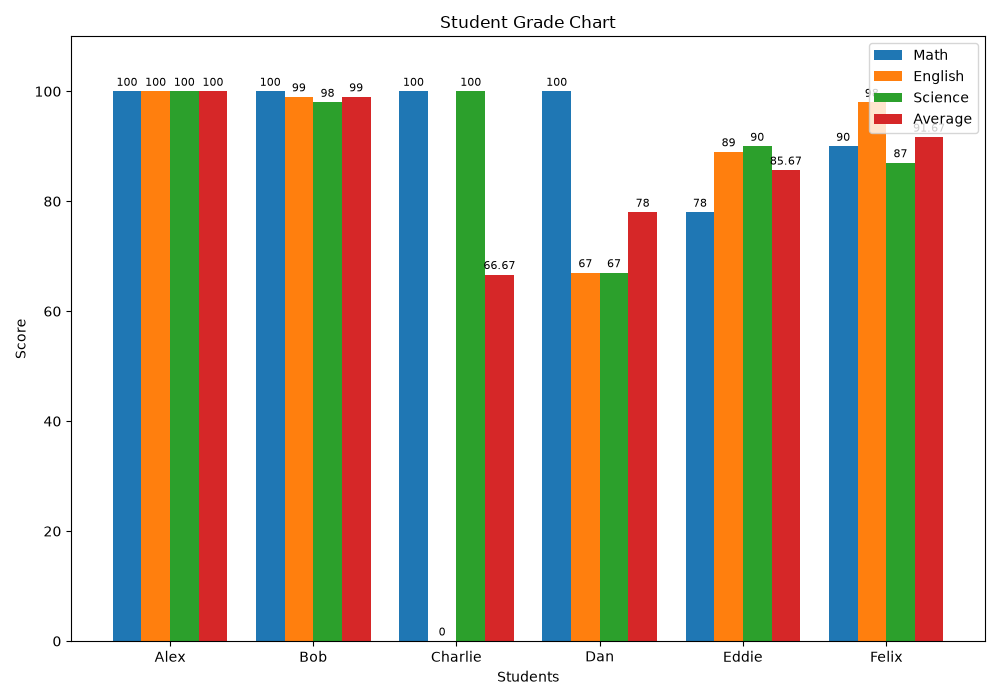
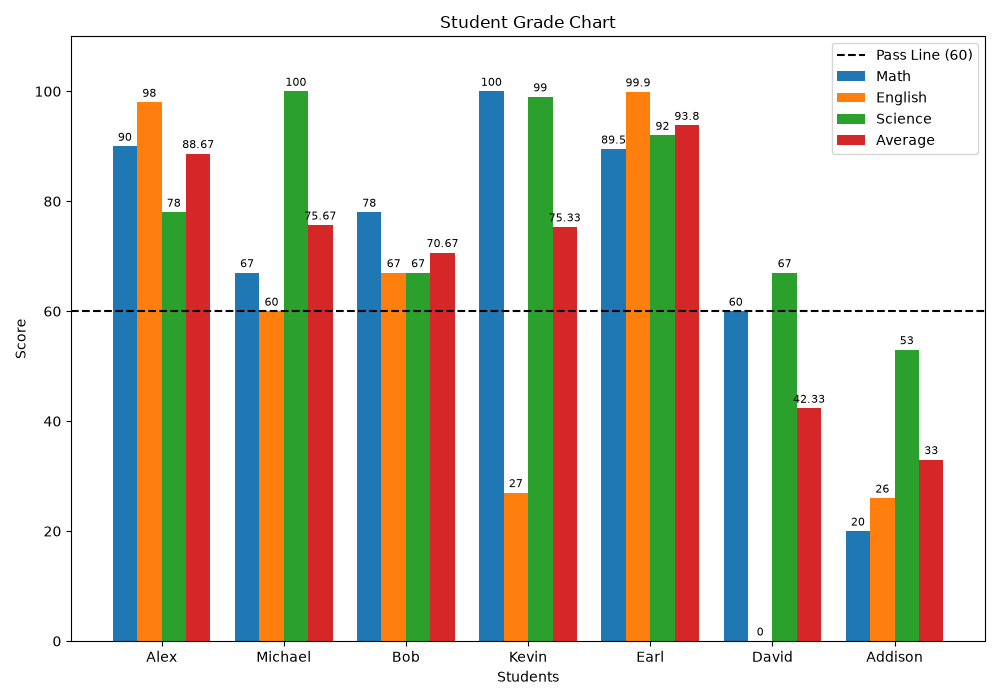
Improve validation and student statistics

diff --git a/main.py b/main.py
@@ -40,7 +40,10 @@ def load_students():
                 if len(data) != 4:
                     print("Warning: Invalid data format skipped.")
                     continue
-                name = data[0]
+                name = data[0].strip()
+                if not name:
+                    print("Warning: Empty name found.")
+                    continue
                 try:
                     math_grade = float(data[1])
                     english_grade = float(data[2])
@@ -51,7 +54,7 @@ def load_students():
                         f'Warning: Invalid student "{name}" data skipped.'
                     )
                     continue
-                if not all(is_valid_grade(grade) for grade in [math_grade,english_grade,science_grade]):
+                if not all(is_valid_grade(grade) for grade in [math_grade, english_grade, science_grade]):
                     print(
                         f'Warning: Student "{name}" has invalid grades, data skipped.'
                     )
@@ -74,8 +77,14 @@ def delete_all():
         print("Data deleted.")
     else:
         print("Delete cancelled.")
+def get_valid_name():
+    while True:
+        name = input("Enter student name: ").strip()
+        if name:
+            return name
+        print("Student name cannot be empty.")
 def add_student():
-    name = input("Enter student name: ")
+    name = get_valid_name()
     math_grade = get_valid_grade("Math")
     english_grade = get_valid_grade("English")
     science_grade = get_valid_grade("Science")
@@ -106,7 +115,7 @@ def search_student():
     if not students:
         print("Student dataset is empty.")
     else:
-        search_name = input("Enter student name: ")
+        search_name = input("Enter student name: ").strip()
         found = False
         for student in students:
             if search_name.lower() in student.name.lower():
@@ -124,7 +133,7 @@ def edit_student():
     if not students:
         print("Student dataset is empty.")
     else:
-        edit_name = input("Enter student name: ")
+        edit_name = input("Enter student name: ").strip()
         found = False
         for student in students:
             if student.name.lower() == edit_name.lower():
@@ -141,7 +150,7 @@ def delete_student():
     if not students:
         print("Student dataset is empty.")
     else:
-        delete_name = input("Enter student name: ")   
+        delete_name = input("Enter student name: ").strip()
         found = False
         for student in students:
             if student.name.lower() == delete_name.lower():    
@@ -168,20 +177,31 @@ def ranking():
 def statistics():
     if not students:
         print("Student dataset is empty.")
-    else:
-        highest = max(students, key=lambda x: x.calculate_average())
-
-        lowest = min(students, key=lambda x: x.calculate_average())
-
-        class_average = (
-                sum(student.calculate_average() for student in students)
-                / len(students)
-            )
-        print("\n===== STATISTICS =====")
-        print("Total Students:", len(students))
-        print("Highest Score:", highest.name, round(highest.calculate_average(), 2))
-        print("Lowest Score:", lowest.name, round(lowest.calculate_average(), 2))
-        print("Class Average:", round(class_average, 2))
+        return
+    math_average = sum(student.math_grade for student in students) / len(students)
+    english_average = sum(student.english_grade for student in students) / len(students)
+    science_average = sum(student.science_grade for student in students) / len(students)
+    highest_math = max(students, key=lambda x: x.math_grade)
+    highest_english = max(students, key=lambda x: x.english_grade)
+    highest_science = max(students, key=lambda x: x.science_grade)
+    highest_student = max(students, key=lambda x: x.calculate_average())
+    lowest_student = min(students, key=lambda x: x.calculate_average())
+    class_average = (sum(student.calculate_average() for student in students) / len(students))
+    failed = sum(student.calculate_average() < 60 for student in students)
+    passed = len(students) - failed
+    pass_rate = passed/len(students) * 100
+    print("\n===== STATISTICS =====")
+    print("Total Students:", len(students), "\n")
+    print("Math Average:", round(math_average, 2))
+    print("English Average:", round(english_average, 2))
+    print("Science Average:", round(science_average, 2))
+    print("Class Average:", round(class_average, 2), "\n")
+    print(f'Highest in Math: {highest_math.name} ({round(highest_math.math_grade, 2)})')
+    print(f'Highest in English: {highest_english.name} ({round(highest_english.english_grade, 2)})')
+    print(f'Highest in Science: {highest_science.name} ({round(highest_science.science_grade, 2)})')
+    print("Highest Score: ", highest_student.name, " (", round(highest_student.calculate_average(), 2), ")", sep="")
+    print("Lowest Score: ", lowest_student.name, " (", round(lowest_student.calculate_average(), 2), ")", sep="")
+    print(f"Passed: {passed}\nFailed: {failed}\nPass rate: {round(pass_rate, 2)}%")
 def add_bar_labels(bars, grades):
     for bar, grade in zip(bars, grades):
         if int(grade) == grade:
@@ -234,6 +254,7 @@ def grade_chart():
         plt.title("Student Grade Chart")
         plt.xlabel("Students")
         plt.xticks(x, names)
+        plt.axhline(y = 60, label = "Pass Line (60%)", linestyle = "--", color = "black")
         plt.legend()
         plt.ylabel("Score")
         plt.ylim(0, 110)
@@ -242,6 +263,23 @@ def grade_chart():
         plt.tight_layout()
         plt.savefig("grade_chart.png")
         print("Chart saved as grade_chart.png")
+def view_student_details():
+    if not students:
+        print("Student dataset is empty.")
+        return
+    name = input("Enter student name: ").strip()
+    found = False
+    for student in students:
+        if name.lower() in student.name.lower():
+            print(f"\n{student.name}")
+            print(f"Math Grade: {student.math_grade}")
+            print(f"English Grade: {student.english_grade}")
+            print(f"Science Grade: {student.science_grade}")
+            average = student.calculate_average()
+            print(f"Average: {round(average, 2)} ({get_grade(average)})")
+            found = True
+    if not found:
+        print("Student not found.")
 print("Student Grade Management System")
 load_students()
 print("Data loaded successfully.")
@@ -258,6 +296,7 @@ while True:
     print("8. Statistics")
     print("9. Grade Chart")
     print("10. Delete all data")
+    print("11. View Student details")
     choice = input("Choose: ")
 
     if choice == "1":
@@ -282,5 +321,7 @@ while True:
         grade_chart()
     elif choice == "10":
         delete_all()
+    elif choice == "11":
+        view_student_details()
     else:
         print("Please enter a number from the menu.")
